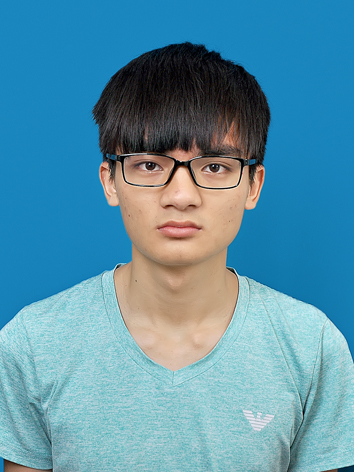
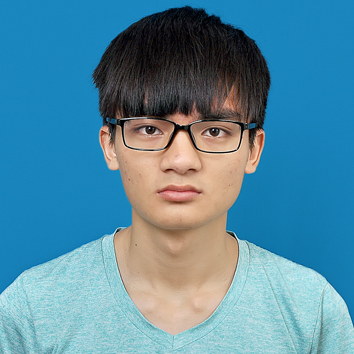
Add LRU Cache blog

diff --git a/src/pages/index.tsx b/src/pages/index.tsx
@@ -34,13 +34,13 @@ export default function Home(): JSX.Element {
       <main className={styles.main}>
         <div className={styles.avatarContainer}>
           <img
-            src={useBaseUrl('/img/author.jpg')}
+            src={useBaseUrl('/img/avatar.jpeg')}
             alt="Avatar"
             className={styles.avatarImage}
           />
         </div>
         <p className={`${styles.text} ${styles.description}`}>
-          I&apos;m Chuc. I&apos;m {getAge()}. I&apos;m currently working as a
+          I&apos;m Chức. I&apos;m {getAge()}. I&apos;m currently working as a
           Site Reliability Engineer at Teko Vietnam.
           <br />
           Here is where I write stuff that I know.

diff --git a/docusaurus.config.ts b/docusaurus.config.ts
@@ -60,6 +60,11 @@ const config: Config = {
       items: [
         { to: '/blog', label: 'Blog', position: 'left' },
         {
+          href: 'https://www.linkedin.com/in/vuchuc789',
+          label: 'LinkedIn',
+          position: 'right',
+        },
+        {
           href: 'https://github.com/vuchuc789',
           label: 'GitHub',
           position: 'right',

diff --git a/blog/2024-07-11-lru-cache/index.md b/blog/2024-07-11-lru-cache/index.md
@@ -1,0 +1,39 @@
+---
+slug: lru-cache
+title: LRU Cache
+authors: chuc
+tags: [algorithm]
+---
+
+> I started blogging with this cache algorithm because I made mistakes implementing it during my TikTok interview 😕.
+
+
+## Introduction
+
+**What is caching?** Caching is the process of storing copies of data in temporary storage so that it can be retrieved more quickly. By having frequently accessed data readily available, caching plays a crucial role in enhancing performance and efficiency in computing systems.
+
+<!-- truncate -->
+
+Caches are integral components of many systems, found in various places such as:
+
+- CPU Caches: L1, L2, and L3 caches within the CPU to speed up data access.
+- DNS Caches: Present in both browsers and operating systems to store DNS query results.
+- Browser Caches: Used to store static files for faster retrieval.
+- Dedicated Cache Servers: Such as Redis, employed to handle high-performance caching needs.
+
+The purpose of caching is mainly to boost data retrieval performance, which means it may not guarantee data availability or consistency. When data is not found in the cache, the default behavior is usually to query it from the primary data storage.
+
+## What is LRU Cache?
+
+The Least Recently Used (LRU) Cache is a cache that will evict least recently used data when the cache is full. In other words, that type of cache keeps most recently accessed data remain available. The below figure briefly shows how LRU Cache works.
+
+![LRU Cache](./lru-cache.png)
+
+Simply put, an LRU (Least Recently Used) Cache is a data structure that follows the LRU rule. It stores data and allows two actions on that data:
+
+- **get**: Retrieves data from the cache.
+- **put**: Inserts data into the cache.
+
+## Implement a LRU Cache
+
+(to be continued...)
